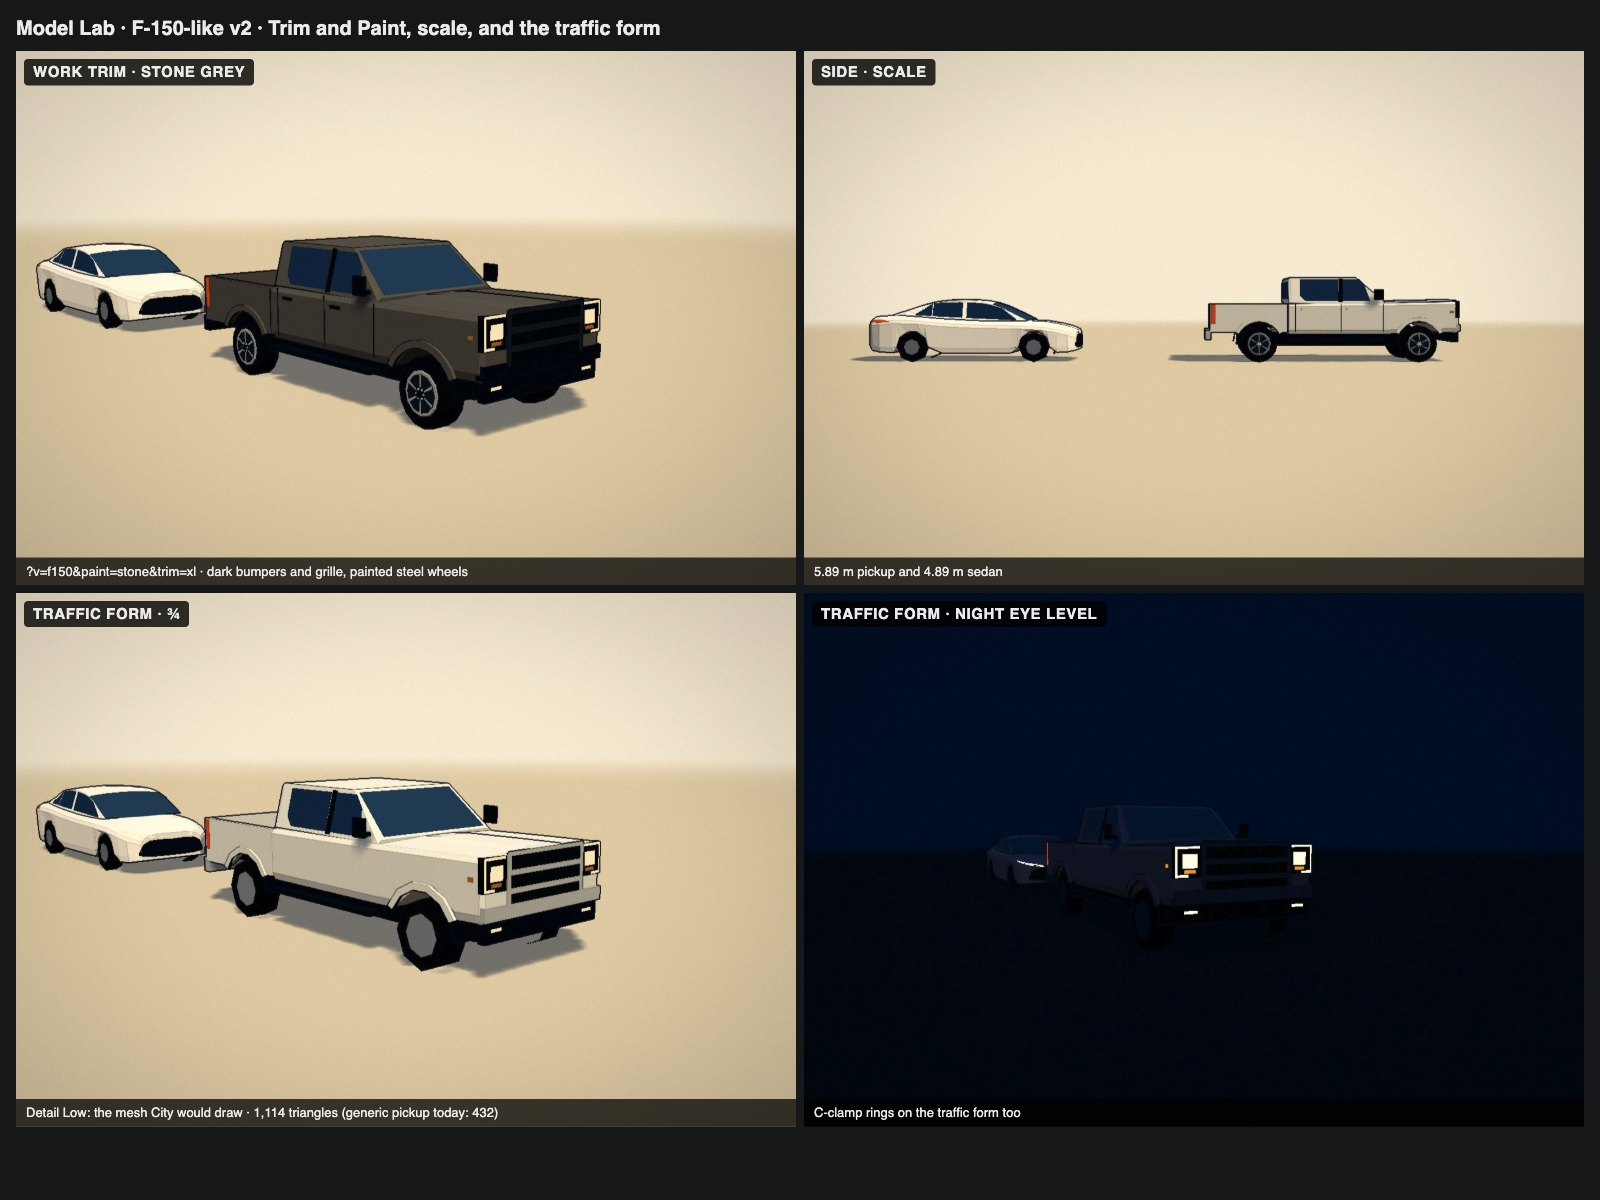
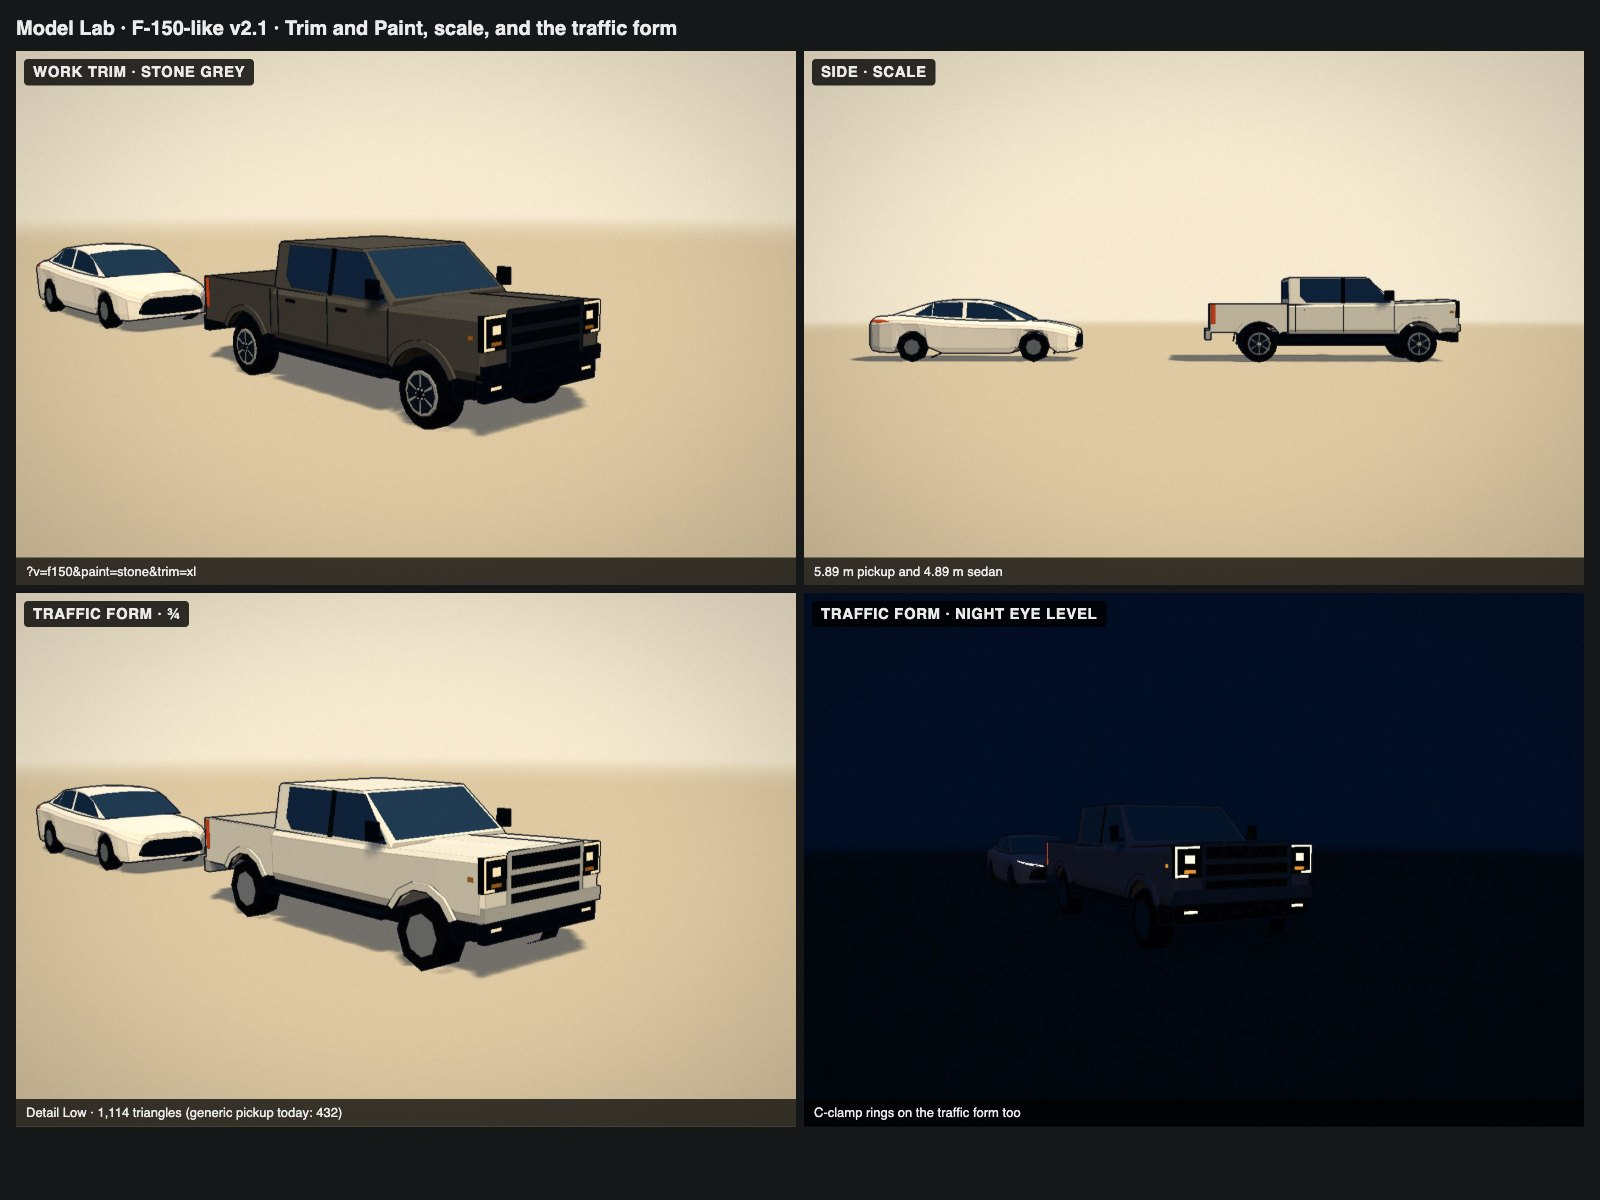
F-150 v2.1: longer SuperCrew cab, taller glass, upright sides, C-ring lamps read at night
The windshield base moves forward to z 1.45 (about a 2.45 m cab to the
back), the sill drops to 1.33 m with glass to 1.92 m, the cab sides stand
up (roof edge half-width 0.87 m), doors are re-cut for the longer cab,
and a smaller inner lamp lets the C-clamp ring carry the night look.

diff --git a/web/src/vignette/road-pickup.ts b/web/src/vignette/road-pickup.ts
@@ -21,8 +21,9 @@ const HALF = 2.029 / 2; // 79.9 in without mirrors
 const TYRE_R = 0.412; // 275/65R18, 32.1 in, on a 4x4's ride height
 const TRACK = 1.725; // 67.9 in front, 68.3 in rear
 const ROOF = 1.955; // 4x2 1.915, 4x4 1.958
-const BELT = 1.36; // side-window sill, level with the hood (estimated)
-const GLASS_TOP = 1.9; // tall door glass (estimated)
+const BELT = 1.33; // side-window sill, just under the hood line (estimated)
+const GLASS_TOP = 1.92; // tall door glass (estimated)
+const SCREEN_BASE = 1.45; // windshield base: the SuperCrew cab runs about 2.45 m from here to the back (estimated)
 const BED_TOP = 1.34; // box rail, just under the belt (estimated)
 const SILL = 0.64; // rocker bottom; 9.8 in ground clearance on a 4x4
 const ARCH = 0.52; // wheel-opening radius (estimated)
@@ -78,8 +79,8 @@ function frontBody(k: FaceKit, near: boolean) {
   // z, half width at the shoulder, top (hood, then belt), sill
   const rows = [
     [CAB_BACK, HALF, BELT, SILL],
-    [1.2, HALF, BELT + 0.02, SILL],
-    [2.2, HALF, 1.4, SILL + 0.02],
+    [SCREEN_BASE - 0.02, HALF, BELT + 0.03, SILL],
+    [2.25, HALF, 1.39, SILL + 0.02],
     [FRONT - 0.08, HALF - 0.015, 1.41, SILL + 0.04],
     [FRONT - 0.03, HALF - 0.05, 1.395, SILL + 0.06],
   ];
@@ -105,10 +106,10 @@ function frontBody(k: FaceKit, near: boolean) {
 function cab(k: FaceKit) {
   // z, half width at the belt, half width at the roof edge, roof height
   const rows = [
-    [CAB_BACK, 0.96, 0.82, ROOF - 0.04],
-    [CAB_BACK + 0.05, 0.965, 0.82, ROOF],
-    [0.55, 0.965, 0.82, ROOF],
-    [1.2, 0.98, 0.93, BELT + 0.04],
+    [CAB_BACK, 0.965, 0.87, ROOF - 0.04],
+    [CAB_BACK + 0.05, 0.97, 0.87, ROOF],
+    [0.78, 0.97, 0.87, ROOF],
+    [SCREEN_BASE, 0.985, 0.95, BELT + 0.06],
   ];
   k.skin(rows.map(([z, wb, wt, top]) => [[-wb, BELT, z], [wb, BELT, z], [wt, top, z], [-wt, top, z]]), body);
   const side = (z: number, y: number, s: number, lift = 0.008) => {
@@ -121,15 +122,15 @@ function cab(k: FaceKit) {
     return [x * wt, h + 0.006, z];
   };
   // Windshield across the raked front of the greenhouse.
-  k.panel([top(1.17, -0.93), top(1.17, 0.93), top(0.6, 0.93), top(0.6, -0.93)], wind, [0, BELT, 0.5]);
+  k.panel([top(SCREEN_BASE - 0.03, -0.94), top(SCREEN_BASE - 0.03, 0.94), top(0.82, 0.94), top(0.82, -0.94)], wind, [0, BELT, 0.7]);
   for (const s of [-1, 1]) {
     // Front door glass under the A-pillar, black B-pillar, rear door glass to the C-pillar.
     // SuperCrew: front door glass under the A-pillar, a near-vertical black B-pillar, then the long
     // rear door's own glass, and a body-colour C-pillar to the back of the cab.
-    const lo = BELT + 0.05, hi = GLASS_TOP;
-    k.panel([side(1.1, lo, s), side(0.24, lo, s), side(0.24, hi, s), side(0.64, hi, s)], glass, [0, 1.6, 0.7]);
-    k.panel([side(0.24, BELT + 0.02, s), side(0.14, BELT + 0.02, s), side(0.15, ROOF - 0.03, s), side(0.25, ROOF - 0.03, s)], dark, [0, 1.6, 0.2]);
-    k.panel([side(0.14, lo, s), side(-0.62, lo, s), side(-0.74, lo + 0.12, s), side(-0.74, hi, s), side(0.14, hi, s)], glass, [0, 1.6, -0.3]);
+    const lo = BELT + 0.04, hi = GLASS_TOP;
+    k.panel([side(1.36, lo, s), side(0.3, lo, s), side(0.3, hi, s), side(0.86, hi, s)], glass, [0, 1.6, 0.8]);
+    k.panel([side(0.3, BELT + 0.02, s), side(0.2, BELT + 0.02, s), side(0.2, ROOF - 0.025, s), side(0.3, ROOF - 0.025, s)], dark, [0, 1.6, 0.25]);
+    k.panel([side(0.2, lo, s), side(-0.6, lo, s), side(-0.74, lo + 0.14, s), side(-0.74, hi, s), side(0.2, hi, s)], glass, [0, 1.6, -0.3]);
   }
   k.lamp(0, 1.66, CAB_BACK - 0.004, 1.4, 0.4, '-z', glass);
 }
@@ -221,7 +222,7 @@ function details(k: FaceKit, near: boolean, trim: PickupTrim) {
     // Headlamp pod at the grille's top corners, ringed by the C-clamp running lamp: along the top,
     // down the outboard edge and back in under the lamp (lit at night with the headlamps).
     k.box(s * 0.82, 1.2, FRONT - 0.065, 0.36, 0.38, 0.08, dark);
-    k.lamp(s * 0.8, 1.21, FRONT - 0.023, 0.2, 0.17, 'z', lens);
+    k.lamp(s * 0.8, 1.23, FRONT - 0.023, 0.13, 0.1, 'z', lens);
     k.lamp(s * 0.83, 1.375, FRONT - 0.021, 0.33, 0.035, 'z', lens);
     k.lamp(s * 0.98, 1.2, FRONT - 0.021, 0.035, 0.36, 'z', lens);
     k.lamp(s * 0.91, 1.035, FRONT - 0.021, 0.17, 0.035, 'z', lens);
@@ -231,16 +232,16 @@ function details(k: FaceKit, near: boolean, trim: PickupTrim) {
     k.lamp(s * 0.78, 0.6, FRONT - 0.037, 0.18, 0.04, 'z', lens);
     // Mirror arm and head, door handles and running board.
     // Door-mounted mirror: a short arm and a dark housing, so it reads as a mirror and not a block.
-    k.box(s * 1.06, 1.47, 1.06, 0.1, 0.04, 0.08, plastic);
-    k.box(s * 1.13, 1.55, 1.04, 0.045, 0.22, 0.2, plastic);
-    k.box(s * 1.0, SILL - 0.12, (CAB_BACK + 1.2) / 2, 0.16, 0.05, 1.2 - CAB_BACK - 0.1, plastic);
+    k.box(s * 1.06, 1.44, 1.3, 0.1, 0.04, 0.08, plastic);
+    k.box(s * 1.13, 1.53, 1.28, 0.045, 0.22, 0.2, plastic);
+    k.box(s * 1.0, SILL - 0.12, (CAB_BACK + 1.42) / 2, 0.16, 0.05, 1.42 - CAB_BACK - 0.1, plastic);
     // Tail lamps on the box corners, facing back and wrapping the side.
     k.lamp(s * (HALF + INNER) / 2, 1.1, TAILGATE - 0.003, HALF - INNER - 0.01, 0.44, '-z', red);
     k.lamp(s * (HALF + 0.002), 1.1, TAILGATE + 0.08, 0.1, 0.44, 'x', red);
     if (!near) continue;
     // Door cuts: a front door to the B-pillar and a long rear door to the C-pillar.
-    for (const z of [1.17, 0.19, -0.86]) k.box(s * (HALF + 0.004), (SILL + 0.04 + BELT) / 2, z, 0.008, BELT - SILL - 0.08, 0.012, shadow);
-    for (const z of [0.42, -0.62]) k.box(s * (HALF + 0.012), 1.22, z, 0.02, 0.04, 0.2, trim === 'xl' ? plastic : body);
+    for (const z of [1.42, 0.25, -0.86]) k.box(s * (HALF + 0.004), (SILL + 0.04 + BELT) / 2, z, 0.008, BELT - SILL - 0.08, 0.012, shadow);
+    for (const z of [0.55, -0.55]) k.box(s * (HALF + 0.012), 1.2, z, 0.02, 0.04, 0.2, trim === 'xl' ? plastic : body);
     k.box(s * (HALF + 0.004), (SILL + 0.04 + BED_TOP) / 2, BED_FRONT - 0.006, 0.008, BED_TOP - SILL - 0.08, 0.012, shadow);
   }
   // Rear step bumper, plate recess, and the frame and fuel tank that fill the underside.

diff --git a/docs/road-pickup.md b/docs/road-pickup.md
@@ -46,4 +46,4 @@ Links only; the photographs are not committed.
 
 ## Stills
 
-[Close form, day and night](log/road-pickup/f150-lab-day-night.jpg) · [Trim, scale and traffic form](log/road-pickup/f150-lab-trim-traffic.jpg)
+[Cab side and night lamps, close](log/road-pickup/f150-closeups.jpg) · [Close form, day and night](log/road-pickup/f150-lab-day-night.jpg) · [Trim, scale and traffic form](log/road-pickup/f150-lab-trim-traffic.jpg)
